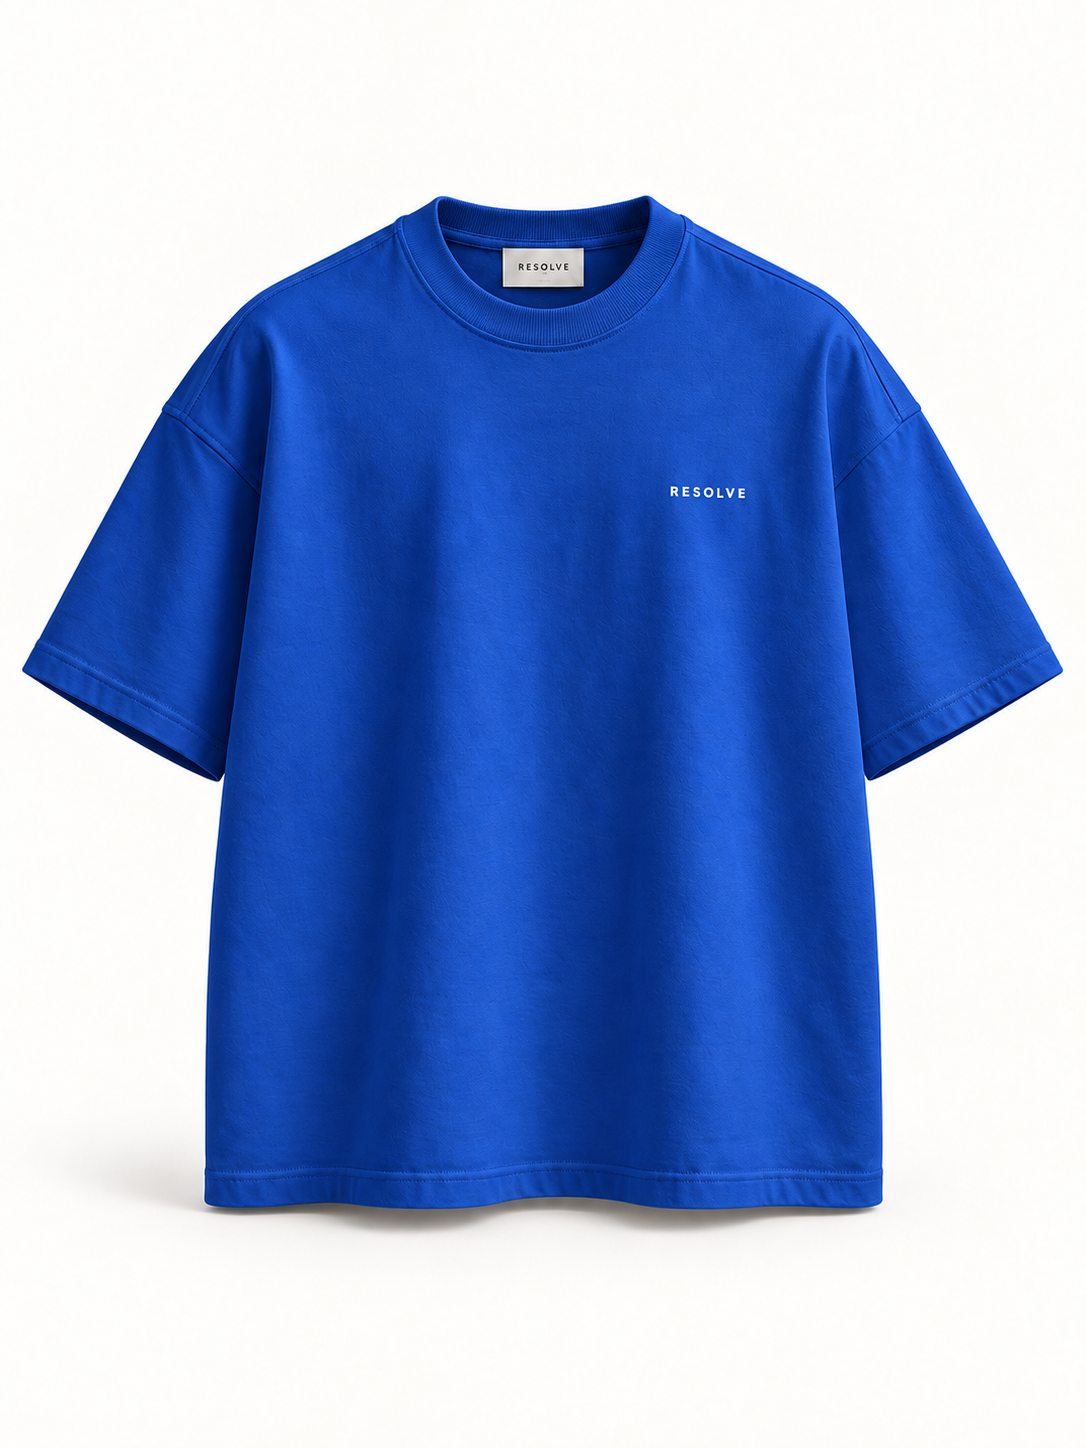
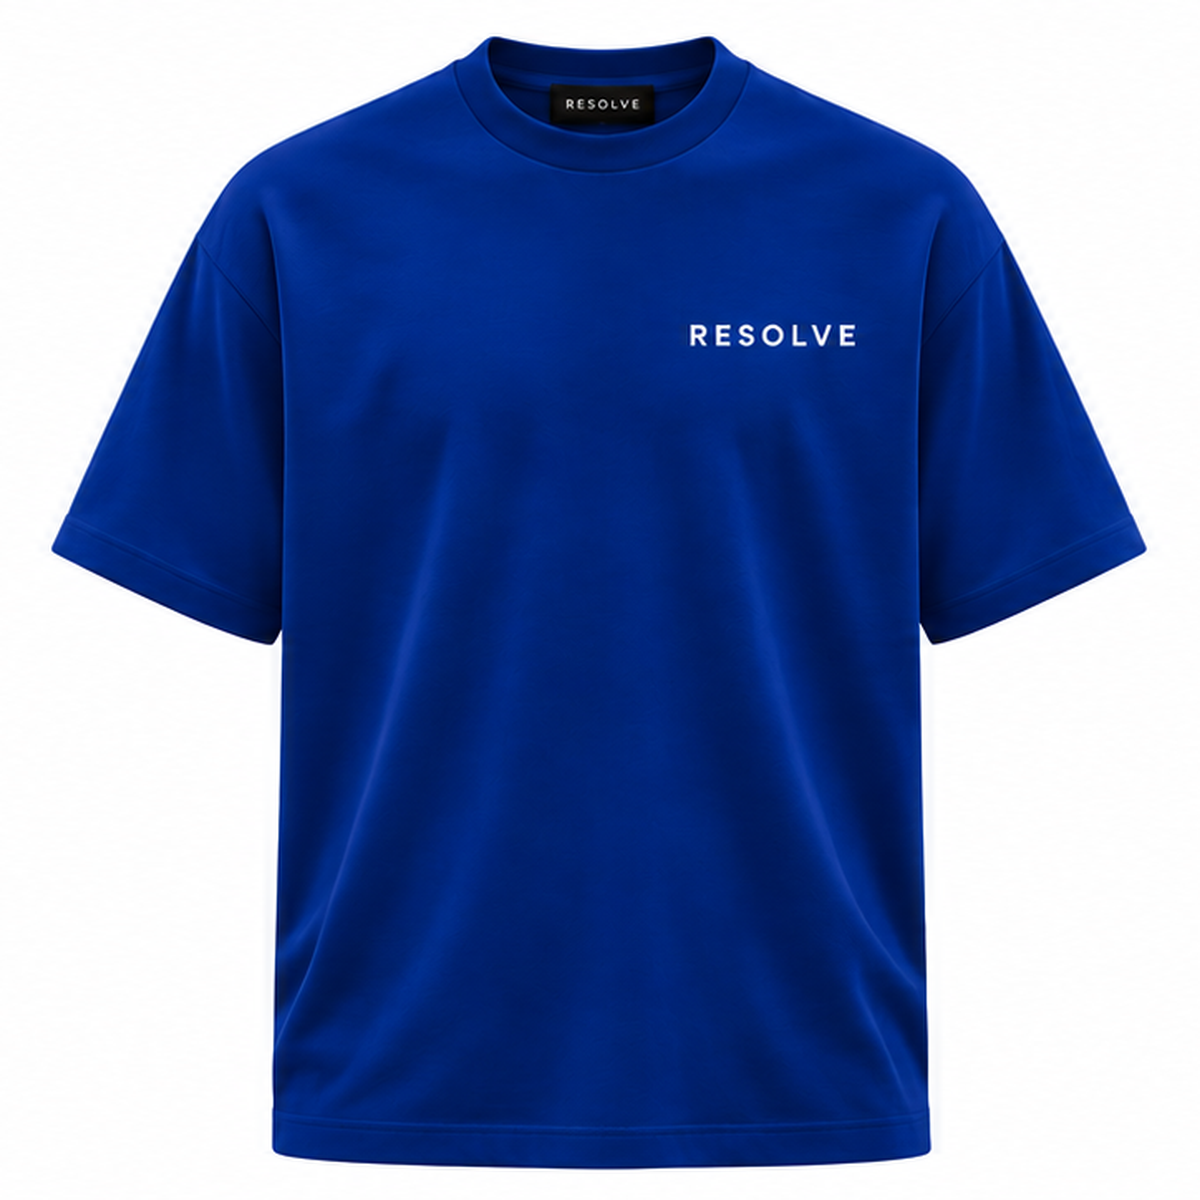
Added Joggers, Quarter Zips, Polo Shirts and new colours to T-Shirts and Hoodies

diff --git a/src/App.jsx b/src/App.jsx
@@ -8,26 +8,36 @@ import Orders from "./Orders.jsx";
 import { IoBagOutline } from "react-icons/io5";
 
 const products = [
-  { id: 1, name: "T-Shirt", category: "T-Shirts", colour: "White", price: 20, image: "/T-shirt/tshirt-white.png" },
-  { id: 2, name: "T-Shirt", category: "T-Shirts", colour: "Grey", price: 20, image: "/T-shirt/tshirt-grey.png" },
-  { id: 3, name: "T-Shirt", category: "T-Shirts", colour: "Royal Blue", price: 20, image: "/T-shirt/tshirt-royalblue.png" },
-  { id: 4, name: "Hoodie", category: "Hoodies", colour: "Grey", price: 40, image: "/Hoodie/hoodie-grey.png" },
-  { id: 5, name: "Hoodie", category: "Hoodies", colour: "Black", price: 40, image: "/Hoodie/hoodie-black.png" },
-  { id: 6, name: "Hoodie", category: "Hoodies", colour: "Royal Blue", price: 40, image: "/Hoodie/hoodie-royalblue.png" },
-  { id: 7, name: "Hoodie", category: "Hoodies", colour: "White", price: 40, image: "/Hoodie/hoodie-white.png" },
-  { id: 8, name: "Jeans", category: "Jeans", colour: "Blue", price: 45, image: "/Jeans/Jeans-blue.png" },
-  { id: 9, name: "Jeans", category: "Jeans", colour: "Light Grey", price: 45, image: "/Jeans/Jeans-lightgrey.png" },
-  { id: 10, name: "Jeans", category: "Jeans", colour: "Dark Grey", price: 45, image: "/Jeans/Jeans-darkgrey.png" },
-  { id: 11, name: "Joggers", category: "Joggers", colour: "Black", price: 30, image: "/Joggers/joggers-black.png" },
-  { id: 12, name: "Joggers", category: "Joggers", colour: "Light Grey", price: 30, image: "/Joggers/joggers-lightgrey.png" },
-  { id: 13, name: "Joggers", category: "Joggers", colour: "Navy Blue", price: 30, image: "/Joggers/joggers-navyblue.png" },
-  { id: 14, name: "Quarter Zips", category: "Quarter Zips", colour: "Black", price: 25, image: "/Quarter Zip/quarter-zip-black.png" },
-  { id: 15, name: "Quarter Zips", category: "Quarter Zips", colour: "Burgandy", price: 25, image: "/Quarter Zip/quarter-zip-burgandy.png" },
-  { id: 16, name: "Quarter Zips", category: "Quarter Zips", colour: "Light Grey", price: 25, image: "/Quarter Zip/quarter-zip-lightgrey.png" },
-  { id: 17, name: "Quarter Zips", category: "Quarter Zips", colour: "Royal Blue", price: 25, image: "/Quarter Zip/quarter-zip-royalblue.png" },
-  { id: 18, name: "Quarter Zips", category: "Quarter Zips", colour: "White", price: 25, image: "/Quarter Zip/quarter-zip-white.png" }
-  
-  
+  { id: 1, name: "T-Shirt", category: "T-Shirts", colour: "Black", price: 20, image: "/T-Shirt/tshirt-black.png" },
+  { id: 2, name: "T-Shirt", category: "T-Shirts", colour: "Burgandy", price: 20, image: "/T-Shirt/tshirt-burgandy.png" },
+  { id: 3, name: "T-Shirt", category: "T-Shirts", colour: "Cream", price: 20, image: "/T-Shirt/tshirt-cream.png" },
+  { id: 4, name: "T-Shirt", category: "T-Shirts", colour: "Light Grey", price: 20, image: "/T-Shirt/tshirt-lightgrey.png" },
+  { id: 5, name: "T-Shirt", category: "T-Shirts", colour: "Royal Blue", price: 20, image: "/T-Shirt/tshirt-royalblue.png" },
+  { id: 6, name: "T-Shirt", category: "T-Shirts", colour: "White", price: 20, image: "/T-Shirt/tshirt-white.png" },
+  { id: 7, name: "Hoodie", category: "Hoodies", colour: "Black", price: 40, image: "/Hoodie/hoodie-black.webp" },
+  { id: 8, name: "Hoodie", category: "Hoodies", colour: "Burgandy", price: 40, image: "/Hoodie/hoodie-burgandy.webp" },
+  { id: 9, name: "Hoodie", category: "Hoodies", colour: "Cream", price: 40, image: "/Hoodie/hoodie-cream.webp" },
+  { id: 10, name: "Hoodie", category: "Hoodies", colour: "Light Grey", price: 40, image: "/Hoodie/hoodie-lightgrey.webp" },
+  { id: 11, name: "Hoodie", category: "Hoodies", colour: "Royal Blue", price: 40, image: "/Hoodie/hoodie-royalblue.webp" },
+  { id: 12, name: "Hoodie", category: "Hoodies", colour: "White", price: 40, image: "/Hoodie/hoodie-white.webp" },
+  { id: 13, name: "Jeans", category: "Jeans", colour: "Blue", price: 45, image: "/Jeans/Jeans-blue.png" },
+  { id: 14, name: "Jeans", category: "Jeans", colour: "Light Grey", price: 45, image: "/Jeans/Jeans-lightgrey.png" },
+  { id: 15, name: "Jeans", category: "Jeans", colour: "Dark Grey", price: 45, image: "/Jeans/Jeans-darkgrey.png" },
+  { id: 16, name: "Joggers", category: "Joggers", colour: "Black", price: 35, image: "/Joggers/joggers-black.png" },
+  { id: 17, name: "Joggers", category: "Joggers", colour: "Light Grey", price: 35, image: "/Joggers/joggers-lightgrey.png" },
+  { id: 18, name: "Joggers", category: "Joggers", colour: "Navy Blue", price: 35, image: "/Joggers/joggers-navyblue.png" },
+  { id: 19, name: "Quarter Zips", category: "Quarter Zips", colour: "Black", price: 30, image: "/Quarter Zip/quarter-zip-black.png" },
+  { id: 20, name: "Quarter Zips", category: "Quarter Zips", colour: "Burgandy", price: 30, image: "/Quarter Zip/quarter-zip-burgandy.png" },
+  { id: 21, name: "Quarter Zips", category: "Quarter Zips", colour: "Light Grey", price: 30, image: "/Quarter Zip/quarter-zip-lightgrey.png" },
+  { id: 22, name: "Quarter Zips", category: "Quarter Zips", colour: "Royal Blue", price: 30, image: "/Quarter Zip/quarter-zip-royalblue.png" },
+  { id: 23, name: "Quarter Zips", category: "Quarter Zips", colour: "White", price: 30, image: "/Quarter Zip/quarter-zip-white.png" },
+  { id: 24, name: "Quarter Zips", category: "Quarter Zips", colour: "Cream", price: 30, image: "/Quarter Zip/quarter-zip-cream.png" },
+  { id: 25, name: "Polo Shirts", category: "Polo Shirts", colour: "Black", price: 40, image: "/Polo Shirts/poloshirt-black.png" },
+  { id: 26, name: "Polo Shirts", category: "Polo Shirts", colour: "Burgandy", price: 40, image: "/Polo Shirts/poloshirt-burgandy.png" },
+  { id: 27, name: "Polo Shirts", category: "Polo Shirts", colour: "Cream", price: 40, image: "/Polo Shirts/poloshirt-cream.png" },
+  { id: 28, name: "Polo Shirts", category: "Polo Shirts", colour: "Light Grey", price: 40, image: "/Polo Shirts/poloshirt-lightgrey.png" },
+  { id: 29, name: "Polo Shirts", category: "Polo Shirts", colour: "Royal Blue", price: 40, image: "/Polo Shirts/poloshirt-royalblue.png" },
+  { id: 30, name: "Polo Shirts", category: "Polo Shirts", colour: "White", price: 40, image: "/Polo Shirts/poloshirt-white.png" }  
 ];
 
 //Props are how information is passed from a parent component to a child component
@@ -144,7 +154,7 @@ function App() {
   const shownProducts =
     category === "All" ? products : products.filter((product) => product.category === category);
 
-    const featuredProducts = [1, 6, 9, 11, 15].map((id) => products.find((product) => product.id === id));
+    const featuredProducts = [1, 8, 13, 17, 22, 27].map((id) => products.find((product) => product.id === id));
 
     const gridProducts = category === "All" ? featuredProducts : shownProducts;
 
@@ -162,6 +172,8 @@ function App() {
               <Link to="/" onClick={() => setCategory("Jeans")}>Jeans</Link>
               <Link to="/" onClick={() => setCategory("Joggers")}>Joggers</Link>
               <Link to="/" onClick={() => setCategory("Quarter Zips")}>Quarter Zip</Link>
+              <Link to="/" onClick={() => setCategory("Polo Shirts")}>POLO SHIRTS</Link>
+
             </div>
           </div>
           <Link to="/about">About</Link>
@@ -191,6 +203,7 @@ function App() {
                   <a href="#products" className="category-tile" onClick={() => setCategory("Jeans")}>JEANS</a>
                   <a href="#products" className="category-tile" onClick={() => setCategory("Joggers")}>JOGGERS</a>
                   <a href="#products" className="category-tile" onClick={() => setCategory("Quarter Zips")}>QUARTER ZIPS</a>
+                  <a href="#products" className="category-tile" onClick={() => setCategory("Polo Shirts")}>POLO SHIRTS</a>
                 </div>
 
                 <h2 className="section-title" id="products">{category === "All" ? "Featured Products" : category.toUpperCase()}</h2>
